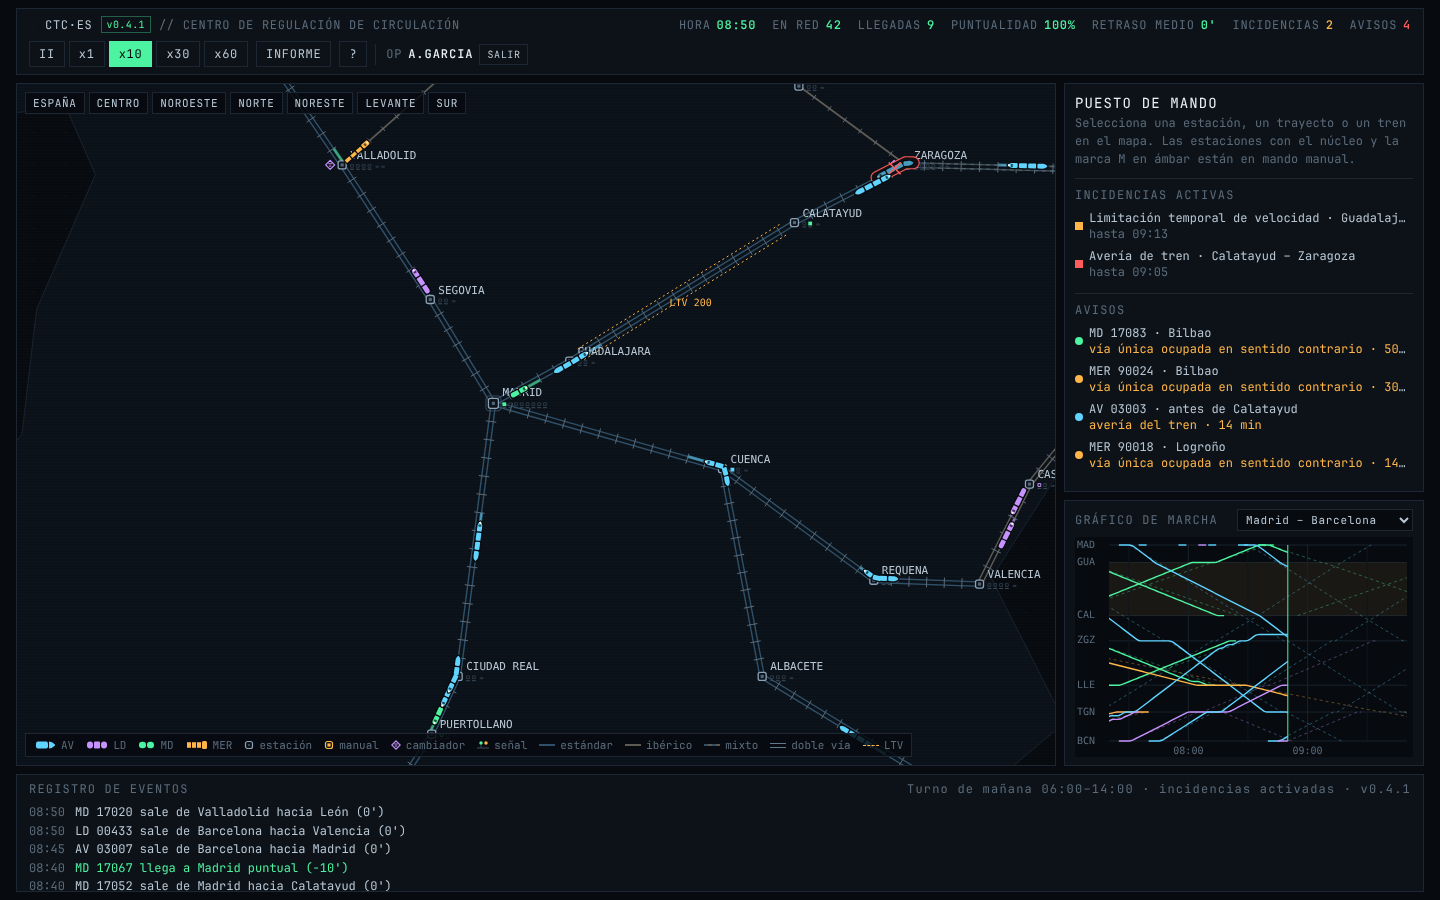
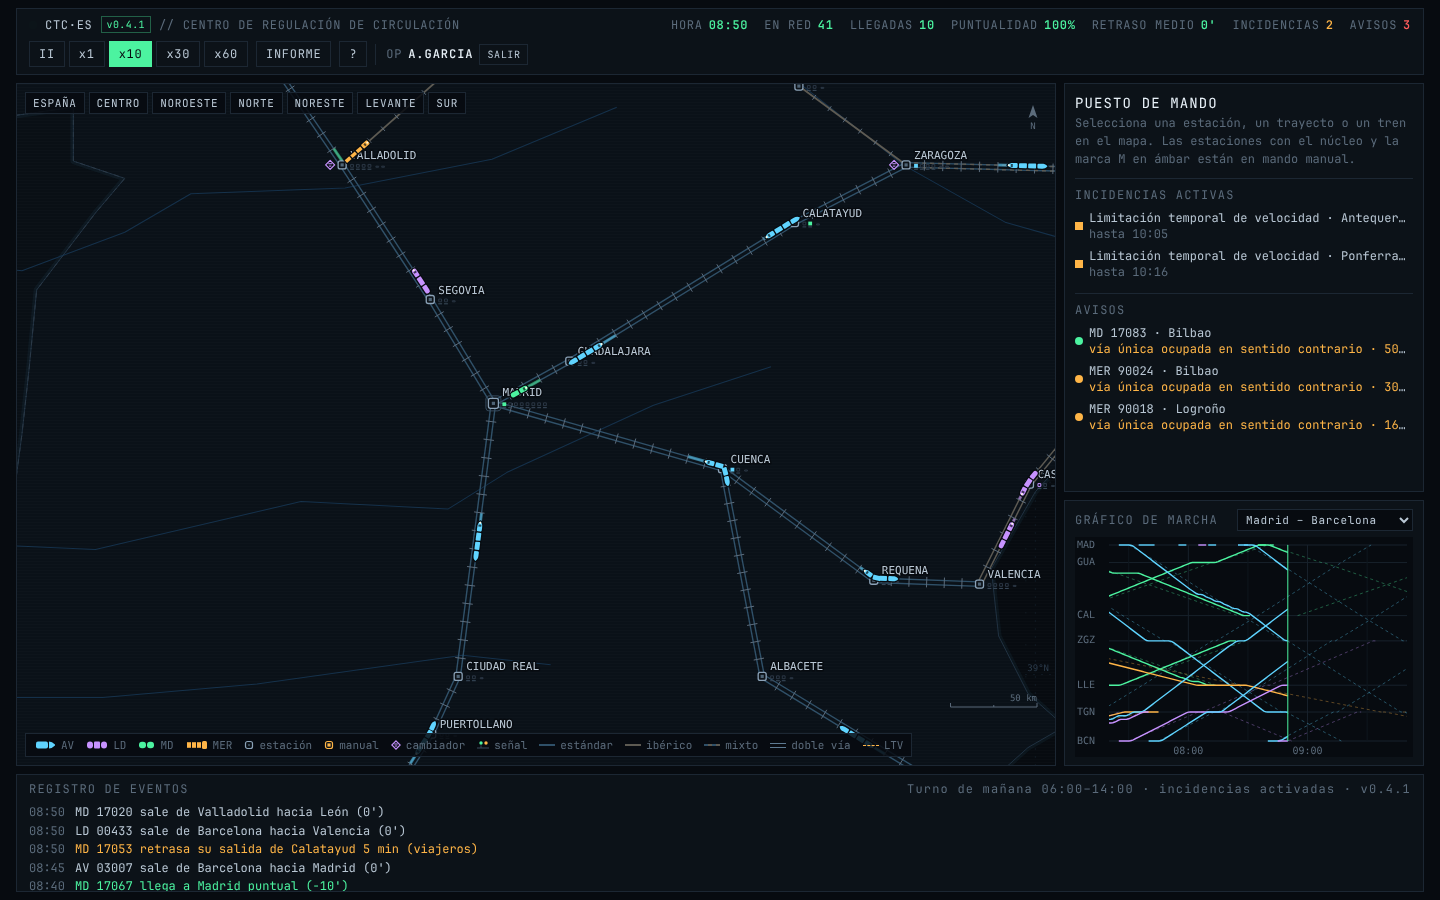
Mapa con más detalle: costa, países vecinos, Baleares, ríos, retícula y escala
Claude-Session: https://claude.ai/code/session_0188fnkqjCe4Ysm4rVSwHhmf

diff --git a/js/ui.js b/js/ui.js
@@ -101,23 +101,131 @@ function line(ctx, a, b) { ctx.beginPath(); ctx.moveTo(a.x, a.y); ctx.lineTo(b.x
 
 // --- Map drawing -----------------------------------------------------------
 
+const GEO_XY = {
+  land: GEO.land.map(poly => poly.map(([lon, lat]) => project(lon, lat))),
+  islands: GEO.islands.map(poly => poly.map(([lon, lat]) => project(lon, lat))),
+  rivers: Object.entries(GEO.rivers).map(([name, pts]) => ({ name, pts: pts.map(([lon, lat]) => project(lon, lat)) })),
+  labels: GEO.labels.map(([text, lon, lat, kind]) => ({ text, kind, p: project(lon, lat) })),
+};
+
+function polyPath(ctx, pts, close) {
+  ctx.beginPath();
+  pts.forEach((q, i) => {
+    const p = toScreen(q);
+    if (i) ctx.lineTo(p.x, p.y); else ctx.moveTo(p.x, p.y);
+  });
+  if (close) ctx.closePath();
+}
+
+// Faint dot grid in the sea plus a 1-degree graticule with edge labels.
 function drawGrid() {
   mctx.fillStyle = C.grid;
   for (let x = 16; x < W; x += 32) for (let y = 16; y < H; y += 32) mctx.fillRect(x, y, 1.5, 1.5);
+  const tl = toWorld(0, 0), br = toWorld(W, H);
+  const lonAt = x => x / (COS_LAT * KM_PER_DEG) - 3.7, latAt = y => 40.4 - y / KM_PER_DEG;
+  const step = cam.s >= 3 ? 0.5 : 1;
+  mctx.strokeStyle = '#0f1922';
+  mctx.lineWidth = 1;
+  mctx.setLineDash([2, 6]);
+  mctx.font = `9px ${FONT}`;
+  mctx.fillStyle = '#2a3a4a';
+  for (let lon = Math.ceil(lonAt(tl.x) / step) * step; lon <= lonAt(br.x); lon += step) {
+    const x = toScreen(project(lon, 40)).x;
+    line(mctx, { x, y: 0 }, { x, y: H });
+    mctx.textAlign = 'left';
+    mctx.fillText(`${Math.abs(lon).toFixed(step < 1 ? 1 : 0)}°${lon < 0 ? 'O' : 'E'}`, x + 3, 12);
+  }
+  for (let lat = Math.ceil(latAt(br.y) / step) * step; lat <= latAt(tl.y); lat += step) {
+    const y = toScreen(project(-3.7, lat)).y;
+    line(mctx, { x: 0, y }, { x: W, y });
+    mctx.textAlign = 'right';
+    mctx.fillText(`${lat.toFixed(step < 1 ? 1 : 0)}°N`, W - 6, y - 3);
+  }
+  mctx.setLineDash([]);
 }
 
 function drawOutline() {
-  mctx.beginPath();
-  OUTLINE_XY.forEach((p, i) => {
-    const s = toScreen(p);
-    if (i) mctx.lineTo(s.x, s.y); else mctx.moveTo(s.x, s.y);
-  });
-  mctx.closePath();
-  mctx.fillStyle = C.land;
-  mctx.fill();
-  mctx.strokeStyle = C.coast;
+  // neighbouring countries: darker fill, dashed borders
+  for (const poly of GEO_XY.land) {
+    polyPath(mctx, poly, true);
+    mctx.fillStyle = '#090f15';
+    mctx.fill();
+  }
+  // Spain and its islands, with a soft coastal glow
+  const shapes = [OUTLINE_XY, ...GEO_XY.islands];
+  for (const poly of shapes) {
+    polyPath(mctx, poly, true);
+    mctx.strokeStyle = 'rgba(76,160,200,.07)';
+    mctx.lineWidth = 6;
+    mctx.lineJoin = 'round';
+    mctx.stroke();
+    mctx.fillStyle = C.land;
+    mctx.fill();
+    mctx.strokeStyle = '#1f3040';
+    mctx.lineWidth = 1;
+    mctx.stroke();
+  }
+  mctx.setLineDash([5, 3, 1, 3]);
+  mctx.strokeStyle = '#2a3846';
+  for (const border of [PT_BORDER, FR_BORDER]) {
+    polyPath(mctx, border.map(([lon, lat]) => project(lon, lat)));
+    mctx.stroke();
+  }
+  mctx.setLineDash([]);
+  // rivers
+  mctx.strokeStyle = '#14304a';
+  mctx.lineWidth = clamp(cam.s * 0.6, 0.8, 1.6);
+  mctx.lineJoin = 'round';
+  for (const r of GEO_XY.rivers) { polyPath(mctx, r.pts); mctx.stroke(); }
+  if (cam.s >= 2.2) {
+    mctx.font = `italic 9px ${FONT}`;
+    mctx.fillStyle = '#1f4462';
+    mctx.textAlign = 'center';
+    for (const r of GEO_XY.rivers) {
+      const q = toScreen(r.pts[Math.floor(r.pts.length / 2)]);
+      mctx.fillText(r.name.toUpperCase(), q.x, q.y - 4);
+    }
+  }
+  // seas and countries
+  mctx.textAlign = 'center';
+  for (const l of GEO_XY.labels) {
+    const q = toScreen(l.p);
+    if (q.x < -100 || q.x > W + 100 || q.y < -20 || q.y > H + 20) continue;
+    mctx.font = l.kind === 'sea' ? `italic 10px ${FONT}` : `10px ${FONT}`;
+    mctx.fillStyle = l.kind === 'sea' ? '#1d3a52' : '#2c3a48';
+    spaced(mctx, l.text, q.x, q.y, l.kind === 'sea' ? 3 : 2.5);
+  }
+}
+
+// Letter-spaced text centred on x.
+function spaced(ctx, text, x, y, gap) {
+  const w = [...text].reduce((n, ch) => n + ctx.measureText(ch).width + gap, -gap);
+  let cx = x - w / 2;
+  ctx.textAlign = 'left';
+  for (const ch of text) { ctx.fillText(ch, cx, y); cx += ctx.measureText(ch).width + gap; }
+  ctx.textAlign = 'center';
+}
+
+// Scale bar and north arrow in the bottom-right corner.
+function drawScale() {
+  const kmPerPx = 1 / cam.s;
+  const nice = [5, 10, 20, 25, 50, 100, 200, 250, 500].find(k => k / kmPerPx >= 70) || 500;
+  const w = nice / kmPerPx, x0 = W - 18 - w, y0 = H - 58;
+  mctx.strokeStyle = '#5b6b7b';
+  mctx.fillStyle = '#5b6b7b';
   mctx.lineWidth = 1;
-  mctx.stroke();
+  line(mctx, { x: x0, y: y0 }, { x: x0 + w, y: y0 });
+  for (const t of [0, 0.5, 1]) line(mctx, { x: x0 + w * t, y: y0 - (t === 0.5 ? 2 : 4) }, { x: x0 + w * t, y: y0 });
+  mctx.font = `9px ${FONT}`;
+  mctx.textAlign = 'right';
+  mctx.fillText(`${nice} km`, x0 + w, y0 - 6);
+  const nx = W - 22, ny = 30;
+  mctx.beginPath();
+  mctx.moveTo(nx, ny - 9); mctx.lineTo(nx + 4.5, ny + 4); mctx.lineTo(nx, ny + 1); mctx.lineTo(nx - 4.5, ny + 4);
+  mctx.closePath();
+  mctx.fill();
+  mctx.textAlign = 'center';
+  mctx.fillText('N', nx, ny + 15);
 }
 
 function drawLines(pulse) {
@@ -273,6 +381,10 @@ function drawStations(pulse) {
     mctx.textAlign = 'left';
     mctx.fillStyle = manual ? C.bright : C.text;
     const label = detailed ? st.name.toUpperCase() : st.id;
+    mctx.strokeStyle = C.bg;
+    mctx.lineWidth = 3;
+    mctx.lineJoin = 'round';
+    mctx.strokeText(label, p.x + r + 4, p.y - r - 2);
     mctx.fillText(label, p.x + r + 4, p.y - r - 2);
     if (manual) {
       // MANUAL badge after the name
@@ -554,11 +666,12 @@ function drawMap(now) {
   drawLines(pulse);
   drawStations(pulse);
   drawTrains(pulse);
+  drawScale();
   if (running && speed === 0) {
     mctx.fillStyle = C.amber;
     mctx.font = `12px ${FONT}`;
     mctx.textAlign = 'right';
-    mctx.fillText('■ SIMULACIÓN EN PAUSA', W - 14, H - 14);
+    mctx.fillText('■ SIMULACIÓN EN PAUSA', W - 44, 30);
   }
 }
 

diff --git a/js/data.js b/js/data.js
@@ -121,17 +121,88 @@ const SECTORS = {
   'SUR':      [-6.6, 36.5, -3.4, 39.3],
 };
 
-// Coarse outline of mainland Spain, only for orientation on the screen.
-const OUTLINE = [
-  [-9.3, 43.0], [-8.9, 43.33], [-8.2, 43.6], [-7.0, 43.55], [-5.8, 43.6], [-4.5, 43.4],
-  [-3.5, 43.45], [-2.9, 43.4], [-1.8, 43.38], [-1.4, 43.05], [-0.7, 42.8], [0.7, 42.8],
-  [1.5, 42.45], [2.4, 42.4], [3.2, 42.35], [3.2, 41.9], [2.4, 41.45], [1.0, 41.05],
-  [0.8, 40.7], [0.2, 40.1], [-0.3, 39.5], [0.2, 38.75], [-0.5, 38.3], [-0.8, 37.6],
-  [-1.6, 37.25], [-2.1, 36.75], [-3.0, 36.75], [-4.4, 36.7], [-5.0, 36.45], [-5.6, 36.0],
-  [-6.2, 36.4], [-6.4, 36.8], [-7.4, 37.2], [-7.5, 37.6], [-7.0, 38.2], [-7.3, 38.5],
-  [-7.0, 39.0], [-7.5, 39.7], [-6.9, 40.25], [-6.8, 40.9], [-6.4, 41.6], [-6.6, 41.95],
-  [-7.2, 41.9], [-8.1, 41.85], [-8.9, 41.9], [-8.9, 42.5],
+// --- Geography (only for orientation on the screen) ---------------------------
+// Hand-traced at roughly 0.1-0.3 degrees; [lon, lat] pairs.
+
+// Border with Portugal, from the Guadiana mouth north to the Miño mouth.
+const PT_BORDER = [
+  [-7.40, 37.18], [-7.42, 37.50], [-7.50, 37.80], [-7.25, 38.20], [-7.30, 38.45], [-7.05, 38.85],
+  [-7.00, 39.10], [-7.30, 39.45], [-7.50, 39.66], [-7.00, 39.68], [-6.90, 40.25], [-6.85, 40.60],
+  [-6.80, 41.00], [-6.40, 41.40], [-6.20, 41.58], [-6.55, 41.67], [-6.55, 41.95], [-7.20, 41.88],
+  [-7.90, 41.86], [-8.20, 42.05], [-8.65, 42.05], [-8.87, 41.87],
 ];
+// Border with France and Andorra, west to east.
+const FR_BORDER = [
+  [-1.79, 43.38], [-1.60, 43.25], [-1.40, 43.05], [-1.00, 42.98], [-0.70, 42.85], [-0.30, 42.83],
+  [0.00, 42.70], [0.65, 42.85], [0.85, 42.80], [1.40, 42.60], [1.72, 42.50], [2.10, 42.42],
+  [2.65, 42.35], [3.17, 42.43],
+];
+
+// Mainland Spain, clockwise from the Miño mouth.
+const OUTLINE = [
+  [-8.87, 41.87], [-8.90, 42.12], [-8.82, 42.28], [-8.95, 42.45], [-9.05, 42.58], [-9.27, 42.88],
+  [-9.20, 43.15], [-8.95, 43.30], [-8.40, 43.37], [-8.25, 43.55], [-7.69, 43.79], [-7.30, 43.62],
+  [-7.00, 43.55], [-6.30, 43.57], [-5.85, 43.66], [-5.60, 43.55], [-5.10, 43.48], [-4.50, 43.40],
+  [-3.80, 43.47], [-3.40, 43.42], [-3.00, 43.38], [-2.70, 43.42], [-2.20, 43.31],
+  ...FR_BORDER,
+  [3.32, 42.32], [3.13, 42.10], [3.20, 41.90], [2.80, 41.65], [2.20, 41.38], [1.80, 41.23],
+  [1.25, 41.10], [0.90, 40.85], [0.88, 40.70], [0.60, 40.55], [0.30, 40.20], [0.00, 39.95],
+  [-0.30, 39.55], [-0.25, 39.20], [-0.05, 38.90], [0.20, 38.73], [-0.05, 38.62], [-0.40, 38.38],
+  [-0.65, 38.05], [-0.75, 37.80], [-0.69, 37.63], [-1.00, 37.58], [-1.40, 37.50], [-1.65, 37.37],
+  [-1.85, 37.10], [-2.19, 36.72], [-2.45, 36.83], [-2.90, 36.74], [-3.50, 36.72], [-4.42, 36.72],
+  [-4.90, 36.50], [-5.35, 36.15], [-5.60, 36.01], [-6.00, 36.18], [-6.30, 36.53], [-6.40, 36.80],
+  [-6.85, 37.10],
+  ...PT_BORDER,
+];
+
+const GEO = {
+  // neighbouring land, drawn darker than Spain
+  land: [
+    [ // Portugal: coast south from the Miño, then the border back north
+      [-8.87, 41.87], [-8.80, 41.50], [-8.65, 41.15], [-8.75, 40.65], [-8.90, 40.15], [-9.05, 39.75],
+      [-9.35, 39.37], [-9.48, 38.78], [-9.15, 38.65], [-9.20, 38.42], [-8.80, 38.48], [-8.80, 38.00],
+      [-8.80, 37.60], [-8.98, 37.02], [-8.60, 37.10], [-7.95, 37.00], ...PT_BORDER,
+    ],
+    [ // France
+      ...FR_BORDER, [3.05, 42.70], [3.10, 43.10], [3.60, 43.40], [4.20, 43.48], [4.80, 43.35],
+      [5.40, 43.20], [6.00, 43.10], [7.50, 43.70], [7.50, 46.50], [-1.50, 46.50], [-1.20, 44.60],
+      [-1.25, 44.00], [-1.50, 43.50],
+    ],
+    [ // North Africa
+      [-5.92, 35.78], [-5.35, 35.90], [-5.00, 35.50], [-4.40, 35.20], [-3.90, 35.20], [-2.94, 35.29],
+      [-2.20, 35.10], [-1.10, 35.20], [-0.60, 35.80], [0.10, 35.90], [1.20, 36.50], [3.00, 36.80],
+      [5.00, 36.80], [5.00, 33.50], [-8.00, 33.50], [-6.85, 34.05], [-6.30, 35.00],
+    ],
+  ],
+  // Spanish islands, drawn like the mainland
+  islands: [
+    [[2.35, 39.60], [2.70, 39.95], [3.20, 39.95], [3.48, 39.72], [3.25, 39.35], [2.95, 39.35], [2.70, 39.53], [2.50, 39.47]],
+    [[3.80, 40.05], [4.30, 39.98], [4.25, 39.82], [3.85, 39.93]],
+    [[1.20, 38.98], [1.45, 39.10], [1.62, 39.03], [1.40, 38.83], [1.28, 38.87]],
+    [[1.38, 38.72], [1.58, 38.68], [1.45, 38.64]],
+  ],
+  rivers: {
+    'Miño':         [[-7.55, 43.10], [-7.56, 42.60], [-7.86, 42.34], [-8.20, 42.12], [-8.87, 41.87]],
+    'Duero':        [[-2.85, 41.95], [-3.70, 41.68], [-4.70, 41.53], [-5.75, 41.50], [-6.20, 41.30], [-6.90, 41.10], [-7.80, 41.15], [-8.65, 41.14]],
+    'Ebro':         [[-4.10, 43.00], [-3.60, 42.75], [-2.95, 42.62], [-2.45, 42.47], [-1.60, 42.07], [-0.90, 41.65], [-0.20, 41.35], [0.50, 41.20], [0.60, 40.95], [0.88, 40.72]],
+    'Tajo':         [[-1.80, 40.60], [-2.60, 40.40], [-3.60, 40.05], [-4.00, 39.86], [-5.00, 39.90], [-6.40, 39.65], [-7.00, 39.67], [-7.90, 39.45], [-8.60, 39.05], [-9.10, 38.70]],
+    'Guadiana':     [[-3.30, 39.05], [-3.90, 39.10], [-5.30, 38.95], [-6.35, 38.88], [-6.98, 38.88], [-7.25, 38.60], [-7.50, 38.00], [-7.42, 37.50], [-7.40, 37.18]],
+    'Guadalquivir': [[-2.90, 37.95], [-3.80, 38.00], [-4.78, 37.88], [-5.60, 37.65], [-5.99, 37.38], [-6.20, 37.00], [-6.36, 36.79]],
+  },
+  // [text, lon, lat, kind]
+  labels: [
+    ['OCÉANO ATLÁNTICO', -10.6, 39.0, 'sea'],
+    ['MAR CANTÁBRICO', -5.2, 44.15, 'sea'],
+    ['MAR MEDITERRÁNEO', 1.6, 37.7, 'sea'],
+    ['MAR DE ALBORÁN', -3.6, 36.2, 'sea'],
+    ['ISLAS BALEARES', 2.9, 40.35, 'region'],
+    ['PORTUGAL', -8.2, 40.1, 'country'],
+    ['FRANCIA', 0.9, 43.65, 'country'],
+    ['ANDORRA', 1.55, 42.75, 'region'],
+    ['MARRUECOS', -4.8, 34.7, 'country'],
+    ['ARGELIA', 1.6, 35.4, 'country'],
+  ],
+};
 
 // Equirectangular projection centred on Madrid; 1 unit is about 1 km.
 const KM_PER_DEG = 111.2;

diff --git a/CHANGELOG.md b/CHANGELOG.md
@@ -10,6 +10,8 @@ Todas las versiones del simulador. El formato sigue [Keep a Changelog](https://k
 
 ### Cambiado
 - Los AV llevan cabeza motriz aerodinámica en los dos extremos.
+- **Mapa más detallado**: costa de la península trazada con más precisión, Portugal, Francia y el norte de África en un tono más oscuro con sus fronteras, islas Baleares, ríos principales (Miño, Duero, Ebro, Tajo, Guadiana y Guadalquivir, con nombre al acercarse), nombres de mares y países, retícula de coordenadas, barra de escala y flecha de norte. Los nombres de estación llevan contorno para leerse sobre las vías.
+- El aviso de simulación en pausa pasa a la esquina superior derecha para no tapar la leyenda.
 - El panel del tren muestra la velocidad actual y la máxima permitida, la próxima parada con su hora prevista y estimada, y el tramo con nombres de estación.
 
 ## [0.4.0] - 2026-10-30
